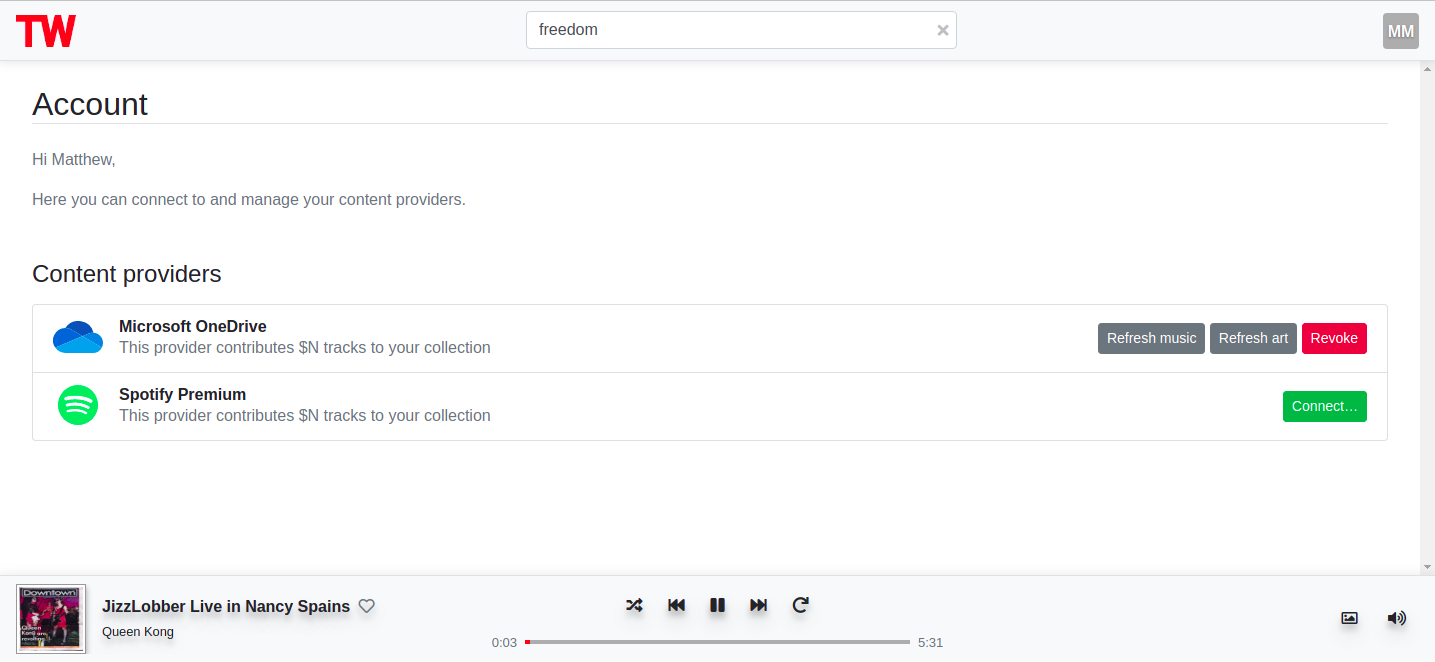
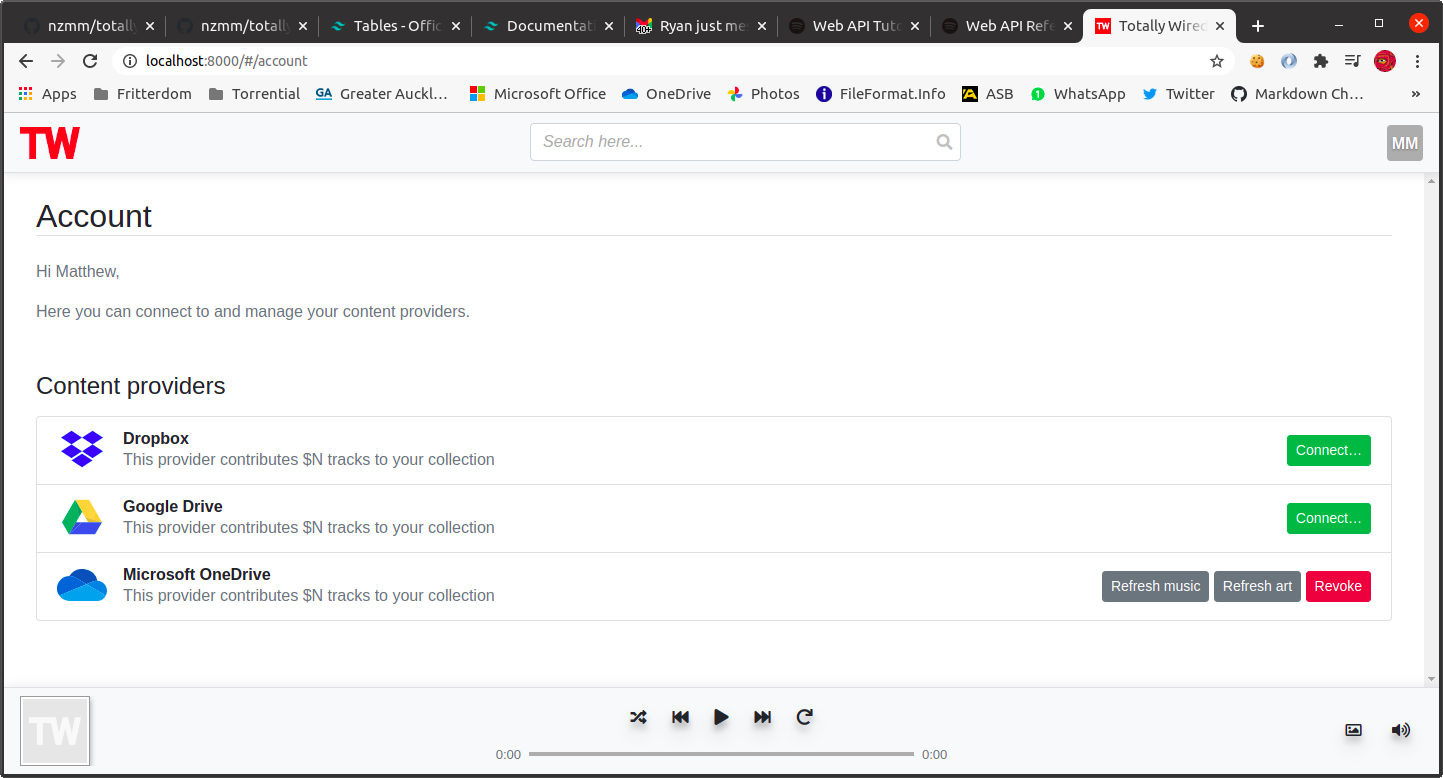
Add dropbox and gdrive assets.

diff --git a/client/src/components/PAccount.svelte b/client/src/components/PAccount.svelte
@@ -29,10 +29,10 @@
             {#each $user.providers as provider}
             <li class="list-group-item d-flex justify-content-between align-items-center">
                 <div class="d-flex">
-                    <img src={provider.brand} height="40" width="50" alt="OneDrive" class="mr-3" />
+                    <img src={provider.brand} height="40" width="50" alt={provider.title} class="mr-3" />
                     <div>
                         <h6 class="p-0 m-0">{provider.title}</h6>
-                        <span class="text-muted">This provider contributes $N tracks to your collection</span>
+                        <small class="text-muted">This provider contributes $N tracks to your collection</small>
                     </div>
                 </div>
                 <div>

diff --git a/server/views/api.py b/server/views/api.py
@@ -14,8 +14,9 @@ from server.models import Artist, Release, Track, Channel
 
 
 ALL_PROVIDERS = [
+    ("dropbox", "Dropbox", "/static/data/im/dropbox.svg"),
+    ("google-drive", "Google Drive", "/static/data/im/google-drive.svg"),
     ("graph", "Microsoft OneDrive", "/static/data/im/onedrive.svg"),
-    ("spotify", "Spotify Premium", "/static/data/im/spotify.svg")
 ]
 
 

diff --git a/README.md b/README.md
@@ -6,7 +6,7 @@
 
 Bring your own music.
 
-Combine the Spotify Library with your curated collection of mp3's and create group playlists with your friends.
+Play all your cloud stashed audio tracks with this web based player.
 
 <br>
 
